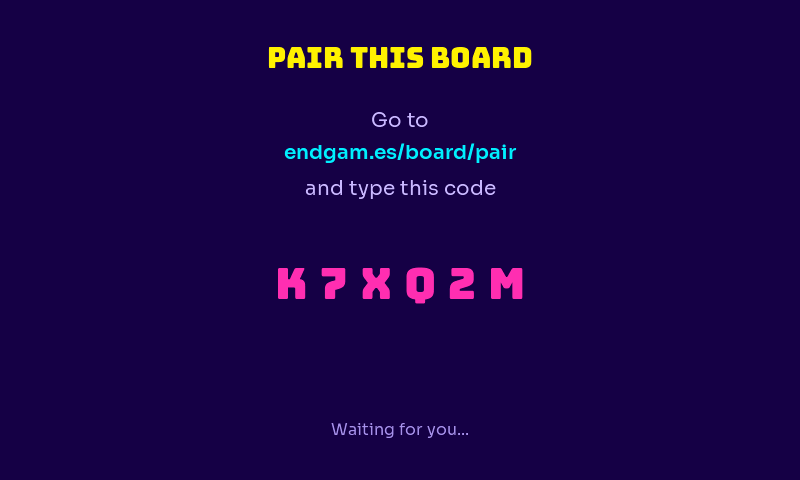
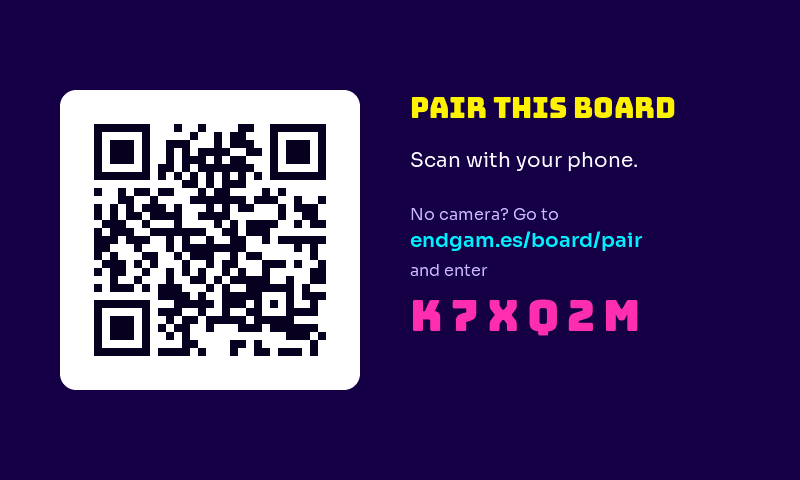
firmware: pairing QR (endgam.es/board/pair?code=...), Wi-Fi connects in place without restart, GT911 init retry

Changed region(s): [[0.0625, 0.1875, 0.8438, 0.8125], [0.3125, 0.0938, 0.6875, 0.1562], [0.4062, 0.875, 0.5938, 0.9062]]

diff --git a/firmware/main/main.c b/firmware/main/main.c
@@ -36,10 +36,17 @@ static void show(lv_obj_t *s)
 
 /* ---------- UI callbacks (run in LVGL task) ---------- */
 
+/* Connect runs in the network task (it blocks up to 20 s); the UI only hands over the credentials. */
+static char want_ssid[33], want_pass[65];
+static volatile bool creds_pending;
+
 static void on_wifi_connect(const char *ssid, const char *pass)
 {
-    eg_store_save_wifi(ssid, pass);
-    esp_restart();                      /* simplest clean reconnect */
+    strncpy(want_ssid, ssid, sizeof want_ssid - 1);
+    want_ssid[sizeof want_ssid - 1] = 0;
+    strncpy(want_pass, pass, sizeof want_pass - 1);
+    want_pass[sizeof want_pass - 1] = 0;
+    creds_pending = true;
 }
 
 static void on_move(const char *from, const char *to, char promo)
@@ -123,9 +130,50 @@ static bool pair(void)
     }
 }
 
+static void wifi_error(const char *msg)
+{
+    lvgl_port_lock(0);
+    eg_wifi_set_error(scr_wifi, msg);
+    lvgl_port_unlock();
+}
+
+/* Try the typed credentials. Saves them only if they work. */
+static bool try_pending_creds(void)
+{
+    creds_pending = false;
+    if (eg_bsp_wifi_connect(want_ssid, want_pass, 20000)) {
+        eg_store_save_wifi(want_ssid, want_pass);
+        wifi_error(NULL);
+        return true;
+    }
+    wifi_error("Couldn't connect. Check the password.");
+    return false;
+}
+
+/* Saved network first; otherwise the Wi-Fi screen until a network works. */
+static void ensure_wifi(void)
+{
+    char ssid[33] = {0}, pass[65] = {0};
+#ifdef EG_DEV_WIFI_SSID
+    if (!eg_store_load_wifi(ssid, pass) && EG_DEV_WIFI_SSID[0]) { strcpy(ssid, EG_DEV_WIFI_SSID); strcpy(pass, EG_DEV_WIFI_PASS); }
+#else
+    eg_store_load_wifi(ssid, pass);
+#endif
+    if (ssid[0] && eg_bsp_wifi_connect(ssid, pass, 20000)) return;
+    show(scr_wifi);
+    request_scan();
+    if (ssid[0]) wifi_error("Couldn't reach your saved network. Pick one.");
+    for (;;) {
+        while (!creds_pending) vTaskDelay(pdMS_TO_TICKS(100));
+        if (try_pending_creds()) return;
+    }
+}
+
 static void net_task(void *arg)
 {
     (void)arg;
+    ensure_wifi();
+    eg_store_load_token(token);
     for (;;) {
         if (!token[0]) {
             while (!pair()) { /* expired: loop with a new code */ }
@@ -136,6 +184,10 @@ static void net_task(void *arg)
         int idle_ms = 0;
         for (;;) {
             if (want_wifi_screen) { want_wifi_screen = false; show(scr_wifi); request_scan(); }
+            if (creds_pending) {                         /* switched networks from the menu */
+                if (try_pending_creds()) show(have_game ? scr_game : scr_idle);
+                continue;
+            }
             if (mailbox.pending && have_game) {
                 mailbox.pending = false;
                 eg_game_t next;
@@ -158,7 +210,7 @@ static void net_task(void *arg)
             }
             for (int waited = 0; waited < idle_ms; waited += 250) {
                 vTaskDelay(pdMS_TO_TICKS(250));
-                if (mailbox.pending || want_wifi_screen) break;   /* react to taps quickly */
+                if (mailbox.pending || want_wifi_screen || creds_pending) break;   /* react to taps quickly */
             }
         }
         ESP_LOGW(TAG, "401: wiping token and re-pairing");
@@ -183,20 +235,5 @@ void app_main(void)
     scr_game = eg_game_create(NULL, &cb);
     lvgl_port_unlock();
     xTaskCreate(scan_task, "scan", 10 * 1024, NULL, 4, &scan_task_h);
-
-    char ssid[33] = {0}, pass[65] = {0};
-#ifdef EG_DEV_WIFI_SSID
-    if (!eg_store_load_wifi(ssid, pass) && EG_DEV_WIFI_SSID[0]) { strcpy(ssid, EG_DEV_WIFI_SSID); strcpy(pass, EG_DEV_WIFI_PASS); }
-#else
-    eg_store_load_wifi(ssid, pass);
-#endif
-    if (!ssid[0] || !eg_bsp_wifi_connect(ssid, pass, 20000)) {
-        show(scr_wifi);
-        request_scan();
-        if (ssid[0]) { lvgl_port_lock(0); eg_wifi_set_error(scr_wifi, "Could not connect. Check the name and password."); lvgl_port_unlock(); }
-        return;                         /* on_wifi_connect saves and restarts */
-    }
-
-    eg_store_load_token(token);
     xTaskCreate(net_task, "net", 12 * 1024, NULL, 5, NULL);
 }

diff --git a/firmware/main/ui_screens.c b/firmware/main/ui_screens.c
@@ -4,6 +4,7 @@
 #include "pieces.h"
 #include "theme.h"
 #include <string.h>
+#include <stdio.h>
 
 static lv_obj_t *base(lv_obj_t *parent)
 {
@@ -361,7 +362,9 @@ void eg_wifi_set_networks(lv_obj_t *screen, const eg_ap_t *aps, int n)
 
 /* ---------- pairing ---------- */
 
-typedef struct { lv_obj_t *code, *url, *status; } pair_t;
+typedef struct { lv_obj_t *code, *qr, *status; } pair_t;
+
+#define EG_PAIR_URL "https://endgam.es/board/pair"
 
 lv_obj_t *eg_pair_create(lv_obj_t *parent)
 {
@@ -370,31 +373,50 @@ lv_obj_t *eg_pair_create(lv_obj_t *parent)
     memset(p, 0, sizeof *p);
     lv_obj_set_user_data(s, p);
 
+    /* left: QR on a white tile (phones need the light quiet zone) */
+    lv_obj_t *tile = lv_obj_create(s);
+    lv_obj_remove_flag(tile, LV_OBJ_FLAG_SCROLLABLE);
+    lv_obj_set_size(tile, 300, 300);
+    lv_obj_set_pos(tile, 60, 90);
+    lv_obj_set_style_bg_color(tile, lv_color_white(), 0);
+    lv_obj_set_style_border_width(tile, 0, 0);
+    lv_obj_set_style_radius(tile, 16, 0);
+    lv_obj_set_style_pad_all(tile, 0, 0);
+    p->qr = lv_qrcode_create(tile);
+    lv_qrcode_set_size(p->qr, 260);
+    lv_qrcode_set_dark_color(p->qr, EG_BG_VOID);
+    lv_qrcode_set_light_color(p->qr, lv_color_white());
+    lv_qrcode_update(p->qr, EG_PAIR_URL, strlen(EG_PAIR_URL));
+    lv_obj_center(p->qr);
+
+    /* right: instructions and the typed fallback */
     lv_obj_t *t = label(s, &eg_bungee_28, EG_YELLOW, "PAIR THIS BOARD");
-    lv_obj_align(t, LV_ALIGN_TOP_MID, 0, 40);
-    lv_obj_t *step = label(s, &eg_sora_20, EG_FG_HAZE, "Go to");
-    lv_obj_align(step, LV_ALIGN_TOP_MID, 0, 110);
-    p->url = label(s, &eg_sora_20_bold, EG_CYAN, "endgam.es/board/pair");
-    lv_obj_align(p->url, LV_ALIGN_TOP_MID, 0, 142);
-    lv_obj_t *step2 = label(s, &eg_sora_20, EG_FG_HAZE, "and type this code");
-    lv_obj_align(step2, LV_ALIGN_TOP_MID, 0, 178);
-
+    lv_obj_set_pos(t, 410, 90);
+    lv_obj_t *a1 = label(s, &eg_sora_20, EG_FG, "Scan with your phone.");
+    lv_obj_set_pos(a1, 410, 150);
+    lv_obj_t *a2 = label(s, &eg_sora_16, EG_FG_HAZE, "No camera? Go to");
+    lv_obj_set_pos(a2, 410, 206);
+    lv_obj_t *u = label(s, &eg_sora_20_bold, EG_CYAN, "endgam.es/board/pair");
+    lv_obj_set_pos(u, 410, 230);
+    lv_obj_t *a3 = label(s, &eg_sora_16, EG_FG_HAZE, "and enter");
+    lv_obj_set_pos(a3, 410, 262);
     p->code = label(s, &eg_bungee_44, EG_PINK, "------");
-    lv_obj_set_style_text_letter_space(p->code, 12, 0);
-    lv_obj_align(p->code, LV_ALIGN_CENTER, 0, 40);
-    lv_obj_set_style_text_font(p->code, &eg_vt323_56, 0);   /* big and readable across a room */
-    lv_obj_set_style_text_font(p->code, &eg_bungee_44, 0);
+    lv_obj_set_style_text_letter_space(p->code, 8, 0);
+    lv_obj_set_pos(p->code, 410, 288);
 
-    p->status = label(s, &eg_sora_16, EG_FG_MIST, "Waiting for you...");
-    lv_obj_align(p->status, LV_ALIGN_BOTTOM_MID, 0, -40);
+    p->status = label(s, &eg_sora_16, EG_FG_MIST, "");
+    lv_obj_set_pos(p->status, 410, 360);
     return s;
 }
 
 void eg_pair_set_code(lv_obj_t *screen, const char *code, const char *claim_url)
 {
+    (void)claim_url;                     /* the QR always carries the code, whatever the server sends */
     pair_t *p = lv_obj_get_user_data(screen);
     lv_label_set_text(p->code, code);
-    if (claim_url) lv_label_set_text(p->url, claim_url);
+    char url[96];
+    snprintf(url, sizeof url, EG_PAIR_URL "?code=%s", code);
+    lv_qrcode_update(p->qr, url, strlen(url));
 }
 
 void eg_pair_set_status(lv_obj_t *screen, const char *msg)

diff --git a/firmware/main/bsp.c b/firmware/main/bsp.c
@@ -31,6 +31,7 @@
 #include "esp_event.h"
 #include "esp_netif.h"
 #include "freertos/event_groups.h"
+#include "freertos/semphr.h"
 
 static const char *TAG = "eg_bsp";
 
@@ -142,7 +143,12 @@ lv_display_t *eg_bsp_init(void)
     if (power_init() != ESP_OK || i2c_init() != ESP_OK) return NULL;
     eg_bsp_backlight(0);                                  /* dark until the first frame is ready */
     if (panel_init() != ESP_OK) return NULL;
-    if (touch_init() != ESP_OK) ESP_LOGE(TAG, "touch init failed; continuing without touch");
+    /* GT911 sometimes NACKs right after a reset; give it a few tries */
+    for (int i = 0; i < 4 && touch_init() != ESP_OK; i++) {
+        ESP_LOGW(TAG, "touch init failed, retrying");
+        vTaskDelay(pdMS_TO_TICKS(250));
+    }
+    if (!s_touch) ESP_LOGE(TAG, "touch init failed; continuing without touch");
 
     lvgl_port_cfg_t port_cfg = ESP_LVGL_PORT_INIT_CONFIG();
     port_cfg.task_stack = 16 * 1024;
@@ -205,11 +211,13 @@ static void wifi_event(void *arg, esp_event_base_t base, int32_t id, void *data)
 }
 
 static bool s_wifi_inited, s_wifi_running;
+static SemaphoreHandle_t s_wifi_mtx;   /* scan and connect never overlap */
 
 static bool wifi_init_once(void)
 {
     if (s_wifi_inited) return true;
     s_wifi_ev = xEventGroupCreate();
+    s_wifi_mtx = xSemaphoreCreateMutex();
     ESP_ERROR_CHECK(esp_netif_init());
     ESP_ERROR_CHECK(esp_event_loop_create_default());
     esp_netif_create_default_wifi_sta();
@@ -227,9 +235,19 @@ static int ap_cmp(const void *a, const void *b)
     return ((const eg_ap_t *)b)->rssi - ((const eg_ap_t *)a)->rssi;
 }
 
+static int wifi_scan_locked(eg_ap_t *out, int max);
+
 int eg_bsp_wifi_scan(eg_ap_t *out, int max)
 {
     if (!wifi_init_once()) return 0;
+    xSemaphoreTake(s_wifi_mtx, portMAX_DELAY);
+    int n = wifi_scan_locked(out, max);
+    xSemaphoreGive(s_wifi_mtx);
+    return n;
+}
+
+static int wifi_scan_locked(eg_ap_t *out, int max)
+{
     if (!s_wifi_running) {
         if (esp_wifi_start() != ESP_OK) return 0;
         s_wifi_running = true;
@@ -266,9 +284,19 @@ int eg_bsp_wifi_scan(eg_ap_t *out, int max)
     return count;
 }
 
+static bool wifi_connect_locked(const char *ssid, const char *pass, int timeout_ms);
+
 bool eg_bsp_wifi_connect(const char *ssid, const char *pass, int timeout_ms)
 {
     if (!wifi_init_once()) return false;
+    xSemaphoreTake(s_wifi_mtx, portMAX_DELAY);
+    bool ok = wifi_connect_locked(ssid, pass, timeout_ms);
+    xSemaphoreGive(s_wifi_mtx);
+    return ok;
+}
+
+static bool wifi_connect_locked(const char *ssid, const char *pass, int timeout_ms)
+{
     if (s_wifi_running) { esp_wifi_stop(); s_wifi_running = false; }
     s_connecting = true;
     xEventGroupClearBits(s_wifi_ev, WIFI_GOT_IP | WIFI_FAILED);

diff --git a/firmware/tools/preview/lv_conf.h b/firmware/tools/preview/lv_conf.h
@@ -19,6 +19,7 @@
 
 #define LV_FONT_MONTSERRAT_14 1
 #define LV_FONT_MONTSERRAT_20 1
+#define LV_USE_QRCODE 1
 #define LV_FONT_DEFAULT &lv_font_montserrat_14
 
 #define LV_USE_FS_STDIO 1
